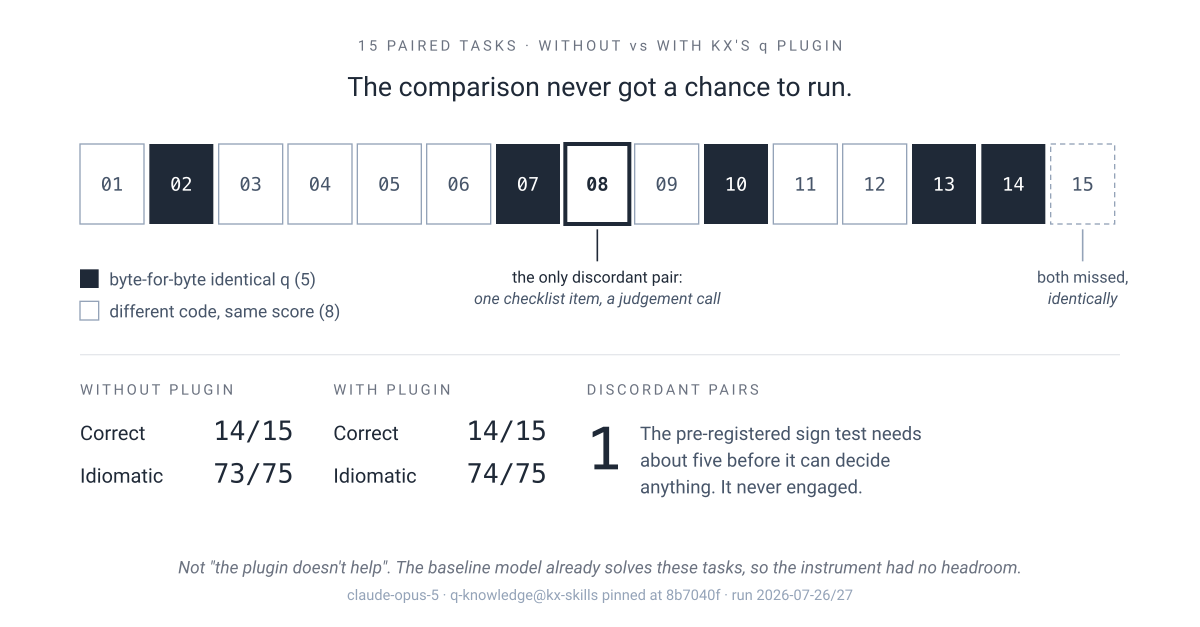
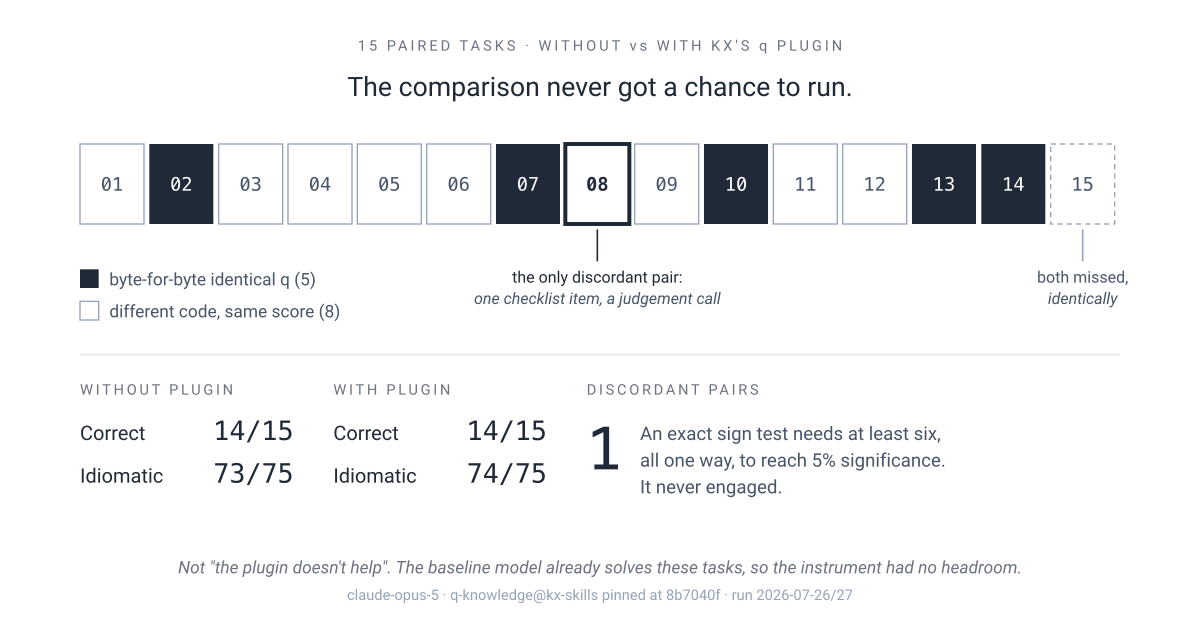
writings/03: act on Codex review (light clean; adversarial 4 of 5 fixed)
Adversarial pass (CODEX_POLICY_OVERRIDE=user-requested-adversarial-review):
- Skill counts: "41" was the model's self-report; the committed system/init
  records show 16 (A, none q-related) and the same 16 + exactly the two
  q-knowledge skills (B). Article + figure 1 use the logs; verdict.md notes it.
- Sign test: the >=~80% rule is a heuristic, not an exact test; an exact
  two-sided sign test needs >=6 one-way discordant pairs for p<0.05
  (5-0 gives 0.0625). Article + figure 2 corrected.
- Sensitivity line for task 15 scored as the docs support: 74/75 vs 75/75,
  still one discordant pair.
- The design section now admits the one checklist item anchored to the
  reference solution rather than a published source (the task-08 item).
Left for the author: Clause 9 reading of the quoted KX p#/g# speed text.

Claude-Session: https://claude.ai/code/session_01PtEeakS7v3dxuvGTPz8cdi

Changed region(s): [[0.5242, 0.6667, 0.8017, 0.7879]]

diff --git a/writings/03-evaluating-kx-q-plugin.md b/writings/03-evaluating-kx-q-plugin.md
@@ -52,10 +52,13 @@ fix a deliberately unidiomatic solution — each run under both conditions. Corr
 golden-file diff. Idiomaticity as a **five-item binary checklist**, never a 1–5 "feel" score,
 because a feel score drifts upward as my own q taste improves while the benchmark stays fixed.
 Every checklist item has to be justifiable against a published source — Q for Mortals or
-code.kx.com — rather than against my preferences.
+code.kx.com — rather than against my preferences. (One item did not live up to that, and it is the
+one that decided the only discordant pair; more below.)
 
 **Decision rule, fixed in advance:** a paired sign test on discordant pairs. Count only the tasks
-where the two conditions differ; the effect is real only if one side takes ≥~80% of them.
+where the two conditions differ; the effect is real only if one side takes ≥~80% of them. (Strictly, that is a heuristic in the
+spirit of a sign test rather than an exact one: a two-sided exact sign test cannot reach 5%
+significance with fewer than six discordant pairs, because even 5–0 gives p = 0.0625.)
 
 I want to flag one thing I am *not* claiming. **There is no blind scoring here, and blinding is
 impossible in principle.** Idiomatic q identifies its own condition — you cannot un-see which
@@ -74,16 +77,18 @@ the comparison measures nothing, and — this is the part that should scare you 
 completely normal.** A contaminated null and a clean null are the same numbers.
 
 So every one of the 50 sessions ran from an empty scratch directory outside the repository, with
-no `CLAUDE.md` and no `.claude/`, driven headless. I verified it rather than assuming it, by asking
-a session in each condition to enumerate what it had loaded. Condition A: 41 skills, none q-related,
-no project instructions, and specifically no `idiomatic-q`. Condition B: the same, plus exactly
-`q-knowledge:q` and `q-knowledge:qlint-snippet`.
+no `CLAUDE.md` and no `.claude/`, driven headless. I verified it rather than assuming it. The committed
+session logs record what each session loaded: every condition-A session had the same 16 skills,
+none q-related, no project instructions, and specifically no `idiomatic-q`. Every condition-B
+session had the same 16 plus exactly `q-knowledge:q` and `q-knowledge:qlint-snippet`. (When I
+asked a session to list its own skills it said 41 — a model's account of its context is not a
+log, which is this article's point in miniature.)
 
 The general form: **when the environment can leak the treatment into the control, that control is a
 property of your harness, not of your analysis.** You cannot add it afterwards, and you cannot
 detect its absence from the output.
 
-![Two panels. Run from inside the repo: its own q skill, CLAUDE.md and lessons leak into both conditions, so both arms are treated and the results look normal. What the eval did: all 50 sessions ran headless from an empty scratch directory with no CLAUDE.md or .claude; asked what it had loaded, condition A listed 41 skills, none q-related, and condition B the same 41 plus exactly q-knowledge:q and q-knowledge:qlint-snippet.](figures/03/figure-1-contamination-control.svg)
+![Two panels. Run from inside the repo: its own q skill, CLAUDE.md and lessons leak into both conditions, so both arms are treated and the results look normal. What the eval did: all 50 sessions ran headless from an empty scratch directory with no CLAUDE.md or .claude; the session logs show condition A loaded 16 skills, none q-related, and condition B the same 16 plus exactly q-knowledge:q and q-knowledge:qlint-snippet.](figures/03/figure-1-contamination-control.svg)
 
 *Figure 1. The contamination control lives in the harness, not in the analysis.*
 
@@ -136,7 +141,8 @@ Here is what came back.
 | **Discordant pairs** | **1** | |
 | Wins | 0 | 1 |
 
-The sign test needs roughly five discordant pairs before it can adjudicate anything. I got one.
+An exact two-sided sign test needs at least six discordant pairs, all going one way, before it can
+reach 5% significance. I got one.
 **The test never engaged.**
 
 ![Fifteen tiles, one per paired task. Five (02, 07, 10, 13, 14) are byte-for-byte identical q in both conditions; eight differ in code but score the same; task 15 is a shared miss, failed identically by both; task 08 is the only discordant pair, decided by one checklist item. Correct 14/15 in both conditions; idiomatic 73/75 without the plugin, 74/75 with it; one discordant pair where the sign test needs about five.](figures/03/figure-2-the-ceiling.svg)
@@ -236,7 +242,9 @@ from *my* task sheet, in a direction the documentation supports, and **my task s
 that was too narrow.** It names one attribute as though it were the only right answer.
 
 I have left the score at zero, because the scoring rule was fixed before the pass and gets applied
-consistently or it is not a rule. But the interpretation is retracted, and since both arms diverged
+consistently or it is not a rule. As a sensitivity check: scored as the documentation supports,
+idiomaticity would be 74/75 without the plugin and 75/75 with it — still one discordant pair, still
+no verdict. But the interpretation is retracted, and since both arms diverged
 identically it never touched the comparison anyway.
 
 That is also the end of the one candidate "gap" this eval produced. My protocol permits authoring a

diff --git a/eval/verdict.md b/eval/verdict.md
@@ -31,7 +31,8 @@ Every subject session ran with cwd set to an **empty scratch directory outside t
 (not a git repo, no `CLAUDE.md`, no `.claude/`). Verified at run time by asking a session to
 enumerate what it had loaded:
 
-- **Condition A** reported 41 skills, none q-related, and "Project instructions (CLAUDE.md): none
+- **Condition A** reported 41 skills (the model's own count; the committed logs' `system/init`
+  records list 16 for A and 18 for B), none q-related, and "Project instructions (CLAUDE.md): none
   loaded". Critically, `idiomatic-q` — this repo's own q skill — was absent.
 - **Condition B** reported exactly two additional skills: `q-knowledge:q` and
   `q-knowledge:qlint-snippet`.
